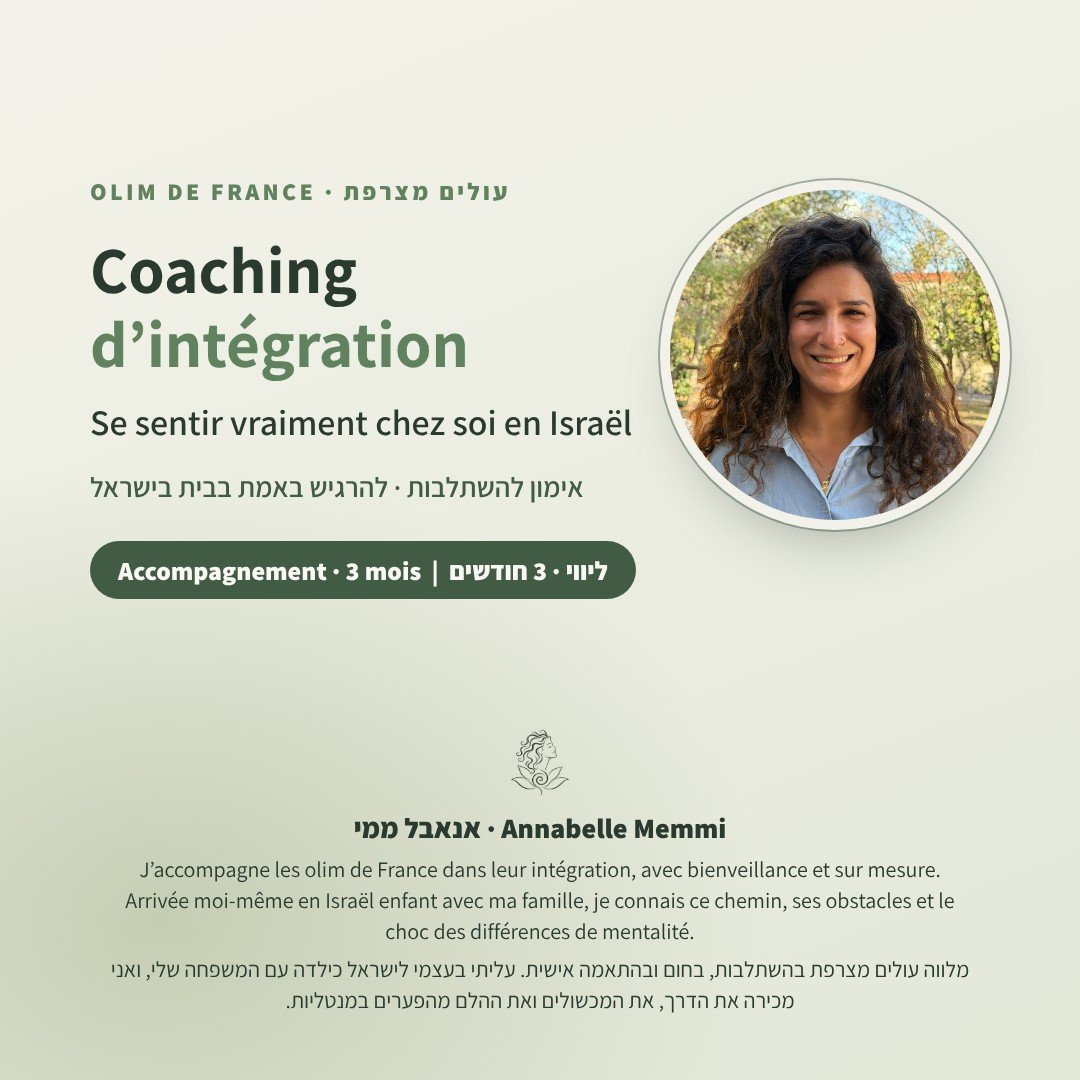
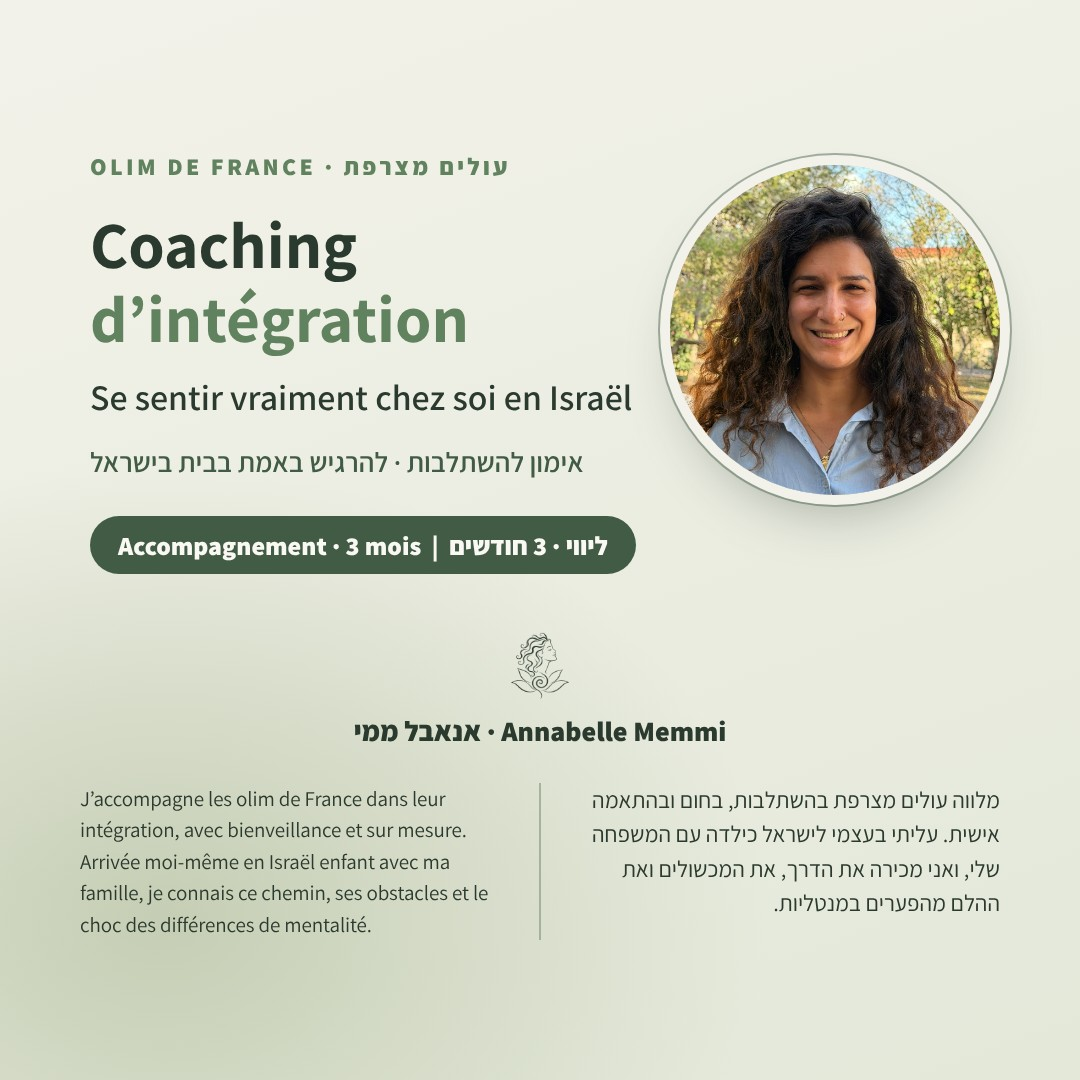
Catalog: intro and olim 3/6-month cards get the same two-column bio footer as the WhatsApp flyer
Claude-Session: https://claude.ai/code/session_01Ur62TcEo8LSQkeiod8x8a5

diff --git a/assets/catalog/cards.html b/assets/catalog/cards.html
@@ -73,17 +73,20 @@
   .wa .he { direction: rtl; text-align: left; }
   .wa .wa-btn { margin: 0; flex: none; width: 96px; height: 96px; border-radius: 50%; background: #25D366; display: grid; place-items: center; box-shadow: 0 12px 28px -12px rgba(37,211,102,.7); }
   .wa .wa-btn .wa-ic { display: block; width: 58px; height: 58px; color: #fff; }
-  #c9 .ol { top: 150px; }
-  #c9 .photo { top: 165px; }
-  #c9 .foot--olim { bottom: 140px; }
-  #c9 .foot--olim { left: 80px; right: 80px; }
-  #c9 .foot--olim > div { width: 100%; }
+  #c2 .ol, #c3 .ol, #c9 .ol { top: 150px; }
+  #c2 .photo, #c3 .photo, #c9 .photo { top: 165px; }
+  #c1 .foot--olim, #c2 .foot--olim, #c3 .foot--olim, #c9 .foot--olim { bottom: 140px; }
+  #c1 .foot--olim, #c2 .foot--olim, #c3 .foot--olim, #c9 .foot--olim { left: 80px; right: 80px; }
+  #c1 .foot--olim > div, #c2 .foot--olim > div, #c3 .foot--olim > div, #c9 .foot--olim > div { width: 100%; }
   .two { display: flex; direction: rtl; align-items: stretch; gap: 34px; margin-top: 34px; }
   .two p { flex: 1; margin: 0 !important; font-size: 22px; line-height: 1.5; }
   .two .two__he { text-align: right !important; }
   .two .two__fr { text-align: left !important; font-size: 21px !important; letter-spacing: -.1px; }
   .two .two__he { font-size: 23px !important; }
   .two__line { flex: none; width: 1.5px; background: rgba(65,91,68,.35); }
+  #c1 { padding-bottom: 380px; }
+  #c1 .photo { top: 150px; }
+  #c1 .rule { display: none; }
 </style>
 </head>
 <body>
@@ -95,7 +98,14 @@
   <span class="pill">חינם</span>
   <img class="photo" src="annabelle-blue.jpg" alt="">
   <div class="rule"></div>
-  <div class="foot"><img src="../img/logo-white.png" alt=""><p><b>אנאבל ממי</b>ליווי אנשים וארגונים בתהליכי שינוי וצמיחה</p></div>
+  <div class="foot foot--olim"><img src="../img/logo-white.png" alt=""><div>
+    <b>Annabelle Memmi · אנאבל ממי</b>
+    <div class="two">
+      <p class="two__he">מלווה עולים מצרפת בהשתלבות, בחום ובהתאמה אישית. עליתי בעצמי לישראל כילדה עם המשפחה שלי, ואני מכירה את הדרך, את המכשולים ואת ההלם מהפערים במנטליות.</p>
+      <i class="two__line"></i>
+      <p class="two__fr" dir="ltr">J’accompagne les olim de France dans leur intégration, avec bienveillance et sur mesure. Arrivée moi-même en Israël enfant avec ma famille, je connais ce chemin, ses obstacles et le choc des différences de mentalité.</p>
+    </div>
+  </div></div>
 </div>
 
 <div class="card olim light olim2" id="c2">
@@ -110,8 +120,11 @@
   <div class="rule"></div>
   <div class="foot foot--olim"><img src="../img/logo-white.png" alt=""><div>
     <b>Annabelle Memmi · אנאבל ממי</b>
-    <p dir="ltr">J’accompagne les olim de France dans leur intégration, avec bienveillance et sur mesure. Arrivée moi-même en Israël enfant avec ma famille, je connais ce chemin, ses obstacles et le choc des différences de mentalité.</p>
-    <p>מלווה עולים מצרפת בהשתלבות, בחום ובהתאמה אישית. עליתי בעצמי לישראל כילדה עם המשפחה שלי, ואני מכירה את הדרך, את המכשולים ואת ההלם מהפערים במנטליות.</p>
+    <div class="two">
+      <p class="two__he">מלווה עולים מצרפת בהשתלבות, בחום ובהתאמה אישית. עליתי בעצמי לישראל כילדה עם המשפחה שלי, ואני מכירה את הדרך, את המכשולים ואת ההלם מהפערים במנטליות.</p>
+      <i class="two__line"></i>
+      <p class="two__fr" dir="ltr">J’accompagne les olim de France dans leur intégration, avec bienveillance et sur mesure. Arrivée moi-même en Israël enfant avec ma famille, je connais ce chemin, ses obstacles et le choc des différences de mentalité.</p>
+    </div>
   </div></div>
 </div>
 
@@ -127,8 +140,11 @@
   <div class="rule"></div>
   <div class="foot foot--olim"><img src="../img/logo-white.png" alt=""><div>
     <b>Annabelle Memmi · אנאבל ממי</b>
-    <p dir="ltr">J’accompagne les olim de France dans leur intégration, avec bienveillance et sur mesure. Arrivée moi-même en Israël enfant avec ma famille, je connais ce chemin, ses obstacles et le choc des différences de mentalité.</p>
-    <p>מלווה עולים מצרפת בהשתלבות, בחום ובהתאמה אישית. עליתי בעצמי לישראל כילדה עם המשפחה שלי, ואני מכירה את הדרך, את המכשולים ואת ההלם מהפערים במנטליות.</p>
+    <div class="two">
+      <p class="two__he">מלווה עולים מצרפת בהשתלבות, בחום ובהתאמה אישית. עליתי בעצמי לישראל כילדה עם המשפחה שלי, ואני מכירה את הדרך, את המכשולים ואת ההלם מהפערים במנטליות.</p>
+      <i class="two__line"></i>
+      <p class="two__fr" dir="ltr">J’accompagne les olim de France dans leur intégration, avec bienveillance et sur mesure. Arrivée moi-même en Israël enfant avec ma famille, je connais ce chemin, ses obstacles et le choc des différences de mentalité.</p>
+    </div>
   </div></div>
 </div>
 
